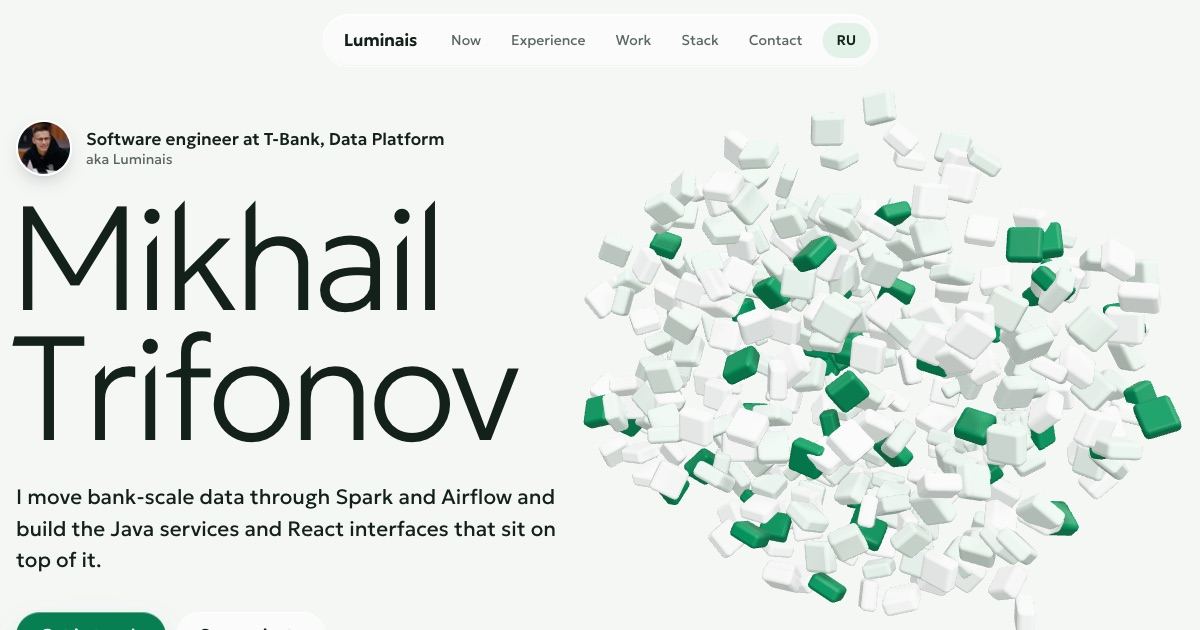
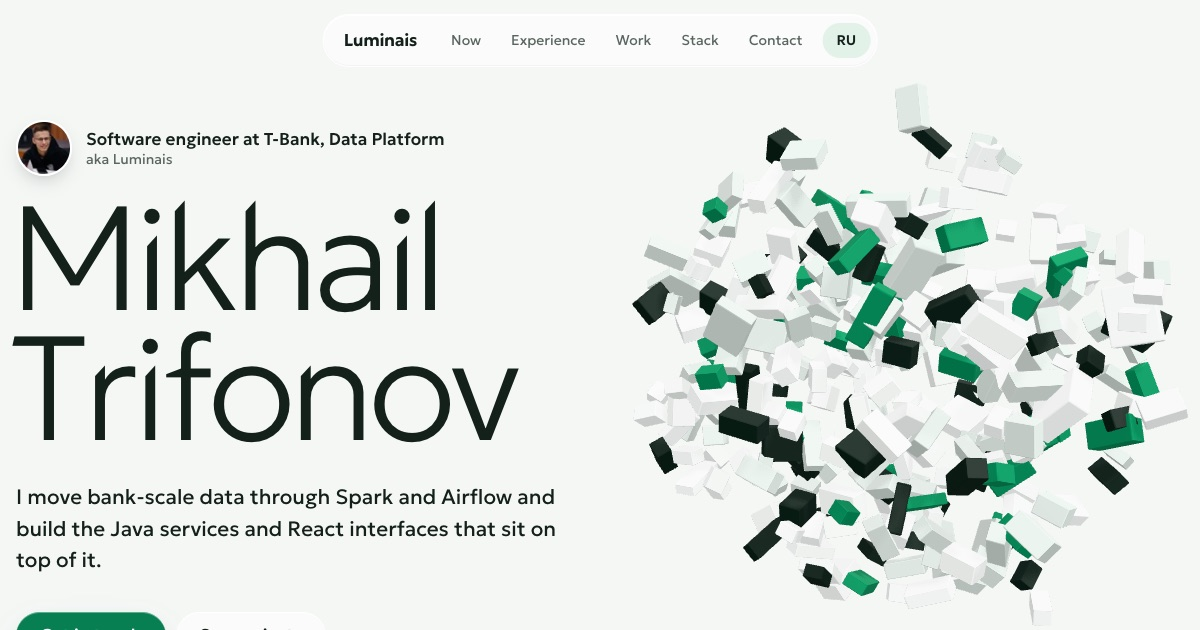
feat(scene): matte blocks of mixed shapes instead of glossy bricks
Glossy rounded white and green bricks read as pills. Blocks now have
crisp edges, a matte finish and mixed raw proportions that normalise to
one size once sorted; a graphite partition adds contrast. Partition
colours are explicit in config, which also fixes the unused third tone.

Changed region(s): [[0.4625, 0.181, 0.9867, 0.9952]]

diff --git a/src/scene/bricks.ts b/src/scene/bricks.ts
@@ -1,5 +1,5 @@
 import type { Group } from 'three';
-import { Euler, InstancedMesh, Matrix4, MeshPhysicalMaterial, Quaternion, Vector3 } from 'three';
+import { Euler, InstancedMesh, Matrix4, MeshStandardMaterial, Quaternion, Vector3 } from 'three';
 import { RoundedBoxGeometry } from 'three/addons/geometries/RoundedBoxGeometry.js';
 import { sceneConfig, type SceneQuality } from './config';
 import { buildLayouts, hash } from './layouts';
@@ -10,32 +10,40 @@ const { bricks: cfg, sortedAt } = sceneConfig;
 
 const clamp01 = (t: number) => Math.min(1, Math.max(0, t));
 const smoothstep = (t: number) => t * t * (3 - 2 * t);
+const lerp = (a: number, b: number, t: number) => a + (b - a) * t;
 const IDENTITY = new Quaternion();
 
 /**
- * Ceramic bricks that sort themselves while the page scrolls: a mixed cloud, then one column per
- * partition, then a solid table. Every brick rides a damped spring, so moves overshoot and settle,
+ * Matte blocks that sort themselves while the page scrolls: a mixed cloud of odd shapes, then one
+ * column per partition with every block normalised to one size, then a solid table. Every brick rides a damped spring, so moves overshoot and settle,
  * and the cursor can push bricks out of place.
  */
 export function createBricks(parent: Group, palette: Palette, quality: SceneQuality): ScenePart {
   const { count, segments, shadows } = cfg.quality[quality];
 
   const geometry = new RoundedBoxGeometry(cfg.size.x, cfg.size.y, cfg.size.z, segments, cfg.radius);
-  const material = new MeshPhysicalMaterial({ roughness: 0.55, clearcoat: 0.35, clearcoatRoughness: 0.35 });
+  const material = new MeshStandardMaterial(cfg.material);
   const mesh = new InstancedMesh(geometry, material, count);
   mesh.frustumCulled = false; // instances travel far from the initial bounds
   mesh.castShadow = shadows;
   mesh.receiveShadow = shadows;
   parent.add(mesh);
 
-  const colourOf = (key: number) =>
-    key === cfg.accentPartition ? palette.accent : (palette.bricks[key % palette.bricks.length] ?? palette.background);
+  const colourOf = (key: number) => {
+    const colour = cfg.colours[key] ?? 1;
+    return colour === 'accent' ? palette.accent : palette.bricks[colour];
+  };
 
   const bricks = buildLayouts(count).map((layout, i) => {
     mesh.setColorAt(i, colourOf(layout.key));
     return {
       ...layout,
       delay: hash(i * 13) * cfg.stagger,
+      raw: new Vector3(
+        lerp(cfg.rawScale.min.x, cfg.rawScale.max.x, hash(i * 5 + 1) ** 2),
+        lerp(cfg.rawScale.min.y, cfg.rawScale.max.y, hash(i * 5 + 2)),
+        lerp(cfg.rawScale.min.z, cfg.rawScale.max.z, hash(i * 5 + 3) ** 2),
+      ),
       spin: new Euler(hash(i * 3 + 11) * 6.3, hash(i * 3 + 12) * 6.3, hash(i * 3 + 13) * 6.3),
       // start above the cloud and fall in
       position: layout.chaos.clone().setY(layout.chaos.y + cfg.intro.drop + hash(i * 7) * cfg.intro.spread),
@@ -51,7 +59,8 @@ export function createBricks(parent: Group, palette: Palette, quality: SceneQual
   const push = new Vector3();
   const force = new Vector3();
   const matrix = new Matrix4();
-  const scale = new Vector3(1, 1, 1);
+  const scale = new Vector3();
+  const UNIT = new Vector3(1, 1, 1);
 
   return {
     update({ time, dt, scroll, pointer, animated }: FrameState) {
@@ -101,6 +110,7 @@ export function createBricks(parent: Group, palette: Palette, quality: SceneQual
           brick.rotation.copy(tumble);
         }
 
+        scale.copy(brick.raw).lerp(UNIT, toColumns);
         mesh.setMatrixAt(i, matrix.compose(brick.position, brick.rotation, scale));
       });
       mesh.instanceMatrix.needsUpdate = true;

diff --git a/src/i18n/ui.ts b/src/i18n/ui.ts
@@ -8,7 +8,7 @@ export const en = {
       'Mikhail Trifonov (Luminais), software engineer at T-Bank Data Platform. Spark SQL, Airflow, Java and Python pipelines, React and TypeScript frontends.',
     jobTitle: 'Software Engineer, Data Platform',
     ogImage: '/og.jpg',
-    ogImageAlt: 'Mikhail Trifonov, software engineer. A cloud of white and green bricks about to be sorted.',
+    ogImageAlt: 'Mikhail Trifonov, software engineer. A cloud of white, graphite and green blocks about to be sorted.',
   },
   nav: {
     label: 'Sections',
@@ -56,7 +56,7 @@ export const ru: UiStrings = {
       'Михаил Трифонов (Luminais), разработчик в Т-Банке, Data Platform. Пайплайны на Spark SQL, Airflow, Java и Python, фронтенд на React и TypeScript.',
     jobTitle: 'Разработчик, Data Platform',
     ogImage: '/og-ru.jpg',
-    ogImageAlt: 'Михаил Трифонов, разработчик. Облако белых и зелёных кирпичиков перед сортировкой.',
+    ogImageAlt: 'Михаил Трифонов, разработчик. Облако белых, графитовых и зелёных блоков перед сортировкой.',
   },
   nav: {
     label: 'Разделы',

diff --git a/src/scene/config.ts b/src/scene/config.ts
@@ -12,17 +12,22 @@ export const sceneConfig = {
     pointerRotation: { x: 0.05, y: 0.1 },
   },
   bricks: {
-    size: { x: 0.32, y: 0.16, z: 0.32 },
+    size: { x: 0.3, y: 0.18, z: 0.3 },
     gap: 0.04,
-    radius: 0.045,
+    /** Small radius keeps edges crisp: machined parts, not soft candy. */
+    radius: 0.012,
+    /** Anodised metal finish. */
+    material: { metalness: 0, roughness: 0.82 },
+    /** Raw bricks come in mixed proportions and are normalised to one size once sorted. */
+    rawScale: { min: { x: 0.6, y: 0.6, z: 0.6 }, max: { x: 2.1, y: 1.3, z: 1.6 } },
     quality: {
-      high: { count: 380, segments: 2, shadows: true },
+      high: { count: 320, segments: 2, shadows: true },
       low: { count: 240, segments: 1, shadows: false },
     },
     /** Partition sizes as shares of all bricks. Skewed on purpose, like real data. */
     partitions: [0.16, 0.32, 0.12, 0.26, 0.14],
-    /** Index of the partition painted in the accent colour. */
-    accentPartition: 2,
+    /** Colour of each partition: a brick token number (--scene-brick-N) or the accent. */
+    colours: [1, 2, 'accent', 1, 3],
     /** Bricks per side of a partition column footprint. */
     footprint: 3,
     partitionSpacing: 1.45,

diff --git a/src/styles/tokens.css b/src/styles/tokens.css
@@ -24,9 +24,9 @@
   --surface-overlay: rgb(19 33 26 / 0.2);
 
   /* scene palette, read by src/scene/palette.ts; the accent brick uses --color-accent */
-  --scene-brick-1: #ffffff;
-  --scene-brick-2: #e3ebe6;
-  --scene-brick-3: #c4d4ca;
+  --scene-brick-1: #fbfcfb;
+  --scene-brick-2: #d5dcd8;
+  --scene-brick-3: #1f2a25;
 
   /* type: one variable family, personality comes from its axes */
   --font-sans: 'Geologica Variable', ui-sans-serif, system-ui, sans-serif;

diff --git a/src/scene/index.ts b/src/scene/index.ts
@@ -53,7 +53,7 @@ export async function mountScene(canvas: HTMLCanvasElement): Promise<SceneHandle
   pmrem.dispose();
 
   // soft studio light: sky fill plus one key light that casts the shadows
-  scene.add(new HemisphereLight('#ffffff', palette.bricks[2] ?? palette.background, 1.1));
+  scene.add(new HemisphereLight('#ffffff', palette.bricks[2], 1.1));
   const key = new DirectionalLight('#ffffff', 2.2);
   key.position.set(4, 9, 6);
   key.castShadow = shadows;

diff --git a/src/scene/palette.ts b/src/scene/palette.ts
@@ -7,7 +7,7 @@ export function readPalette() {
   return {
     background: color('--color-bg'),
     accent: color('--color-accent'),
-    bricks: [1, 2, 3].map((i) => color(`--scene-brick-${i}`)),
+    bricks: { 1: color('--scene-brick-1'), 2: color('--scene-brick-2'), 3: color('--scene-brick-3') },
   };
 }
 

diff --git a/README.md b/README.md
@@ -9,7 +9,7 @@
 ![Lighthouse](https://img.shields.io/badge/Lighthouse_performance-100%20desktop%20%C2%B7%2099%20mobile-0CCE6B?logo=lighthouse&logoColor=white)
 
 Personal site of Mikhail Trifonov (Luminais), software engineer at T-Bank Data Platform.
-A static, bilingual (EN/RU) one-pager with a WebGL backdrop: a cloud of ceramic bricks sorts itself while you
+A static, bilingual (EN/RU) one-pager with a WebGL backdrop: a cloud of matte blocks sorts itself while you
 scroll, first into partition columns, then into one solid table. ETL as a physical process.
 
 ## Stack
@@ -120,8 +120,8 @@ Dates are formatted with `Intl.DateTimeFormat`, so `2025-09` renders as "Sep 202
 
 ## Scene
 
-Data as physical material. A few hundred ceramic bricks hang in a mixed cloud in the hero. While the page
-scrolls they sort themselves by colour into partition columns (sized unevenly on purpose, like real data with
+Data as physical material. A few hundred matte blocks of odd shapes hang in a mixed cloud in the hero. While the
+page scrolls they are normalised to one size and sorted by colour into partition columns (sized unevenly on purpose, like real data with
 skew), then pack into one solid table where the sorted keys show as stripes. The cursor pushes bricks along the
 line of sight; springs pull them back.
 
